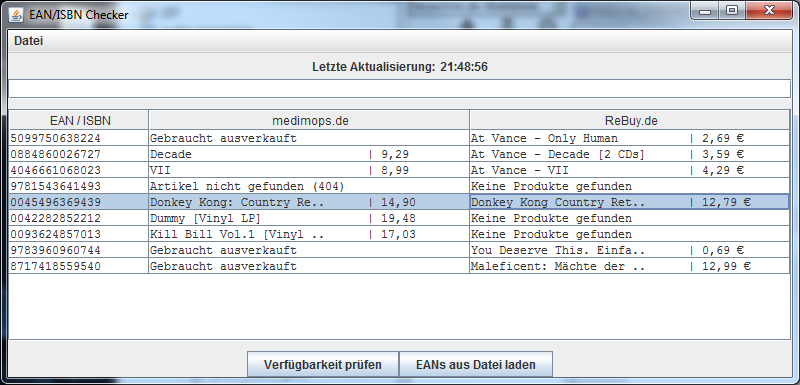
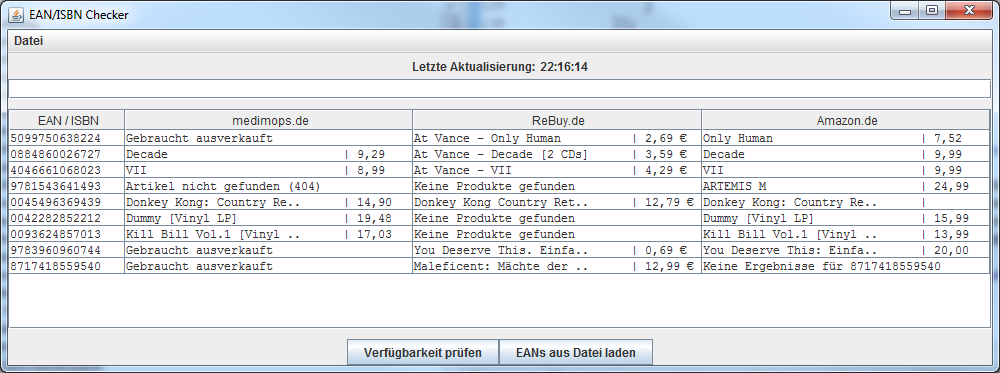
re-added amazon provider

diff --git a/EAN_Checker/src/main/java/github/cluder/ean/ui/EanCheckerUI.java b/EAN_Checker/src/main/java/github/cluder/ean/ui/EanCheckerUI.java
@@ -55,7 +55,7 @@ public class EanCheckerUI extends JFrame {
 	public EanCheckerUI() {
 		setTitle("EAN/ISBN Checker");
 		setDefaultCloseOperation(JFrame.EXIT_ON_CLOSE);
-		final int width = 800;
+		final int width = 1000;
 		setBounds(100, 100, width, 600);
 		JMenuBar menuBar = new JMenuBar();
 		setJMenuBar(menuBar);
@@ -139,6 +139,7 @@ public class EanCheckerUI extends JFrame {
 		tabResult.getColumnModel().getColumn(0).setPreferredWidth(120);
 		tabResult.getColumnModel().getColumn(1).setPreferredWidth(300);
 		tabResult.getColumnModel().getColumn(2).setPreferredWidth(300);
+		tabResult.getColumnModel().getColumn(3).setPreferredWidth(300);
 
 		tableRowSorter = new TableRowSorter<>(this.tableDataModel);
 		tabResult.setRowSorter(tableRowSorter);

diff --git a/EAN_Checker/src/main/java/github/cluder/ean/provider/ProductProviders.java b/EAN_Checker/src/main/java/github/cluder/ean/provider/ProductProviders.java
@@ -9,7 +9,7 @@ public class ProductProviders {
 	static {
 		providers.add(new MedimopsProvider());
 		providers.add(new ReBuyProvider());
-//		providers.add(new AmazonDeProvider());
+		providers.add(new AmazonDeProvider());
 	}
 
 	static public List<AbstractProvider> getProviders() {
